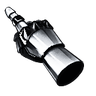
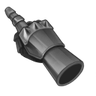
Curseurs : originaux en simples niveaux de gris (tous les détails conservés)
Claude-Session: https://claude.ai/code/session_0146Ahif6waR1P8s7ctFtwsu

Changed region(s): [[0.0312, 0.0625, 0.875, 0.9062]]

diff --git a/src/styles/global.css b/src/styles/global.css
@@ -70,7 +70,7 @@ html.screens, html.screens body { height: 100%; overflow: hidden; overscroll-beh
 
 /* ---------- accessibilité ---------- */
 /* curseur : gantelet (fichier fourni), point chaud à la pointe ; le curseur système reste pour les champs de texte */
-/* curseurs : gantelet médiéval (THTH, domaine public), recoloré en chrome (acier poli) et fer noir ; 48 px, version 2× pour Retina */
+/* curseurs : gantelet médiéval (THTH, domaine public), passé en niveaux de gris ; 48 px, version 2× pour Retina */
 html { cursor: url(/cur-default.png) 2 3, auto !important; cursor: -webkit-image-set(url(/cur-default.png) 1x, url(/cur-default-2x.png) 2x) 2 3, auto !important; cursor: image-set(url(/cur-default.png) 1x, url(/cur-default-2x.png) 2x) 2 3, auto !important; }
 a, button, [role='button'], label, summary, select, [data-go], [data-copy], .prog { cursor: url(/cur-pointer.png) 2 3, auto !important; cursor: -webkit-image-set(url(/cur-pointer.png) 1x, url(/cur-pointer-2x.png) 2x) 2 3, auto !important; cursor: image-set(url(/cur-pointer.png) 1x, url(/cur-pointer-2x.png) 2x) 2 3, auto !important; }
 .obj a, .stage { cursor: url(/cur-grab.png) 2 3, auto !important; cursor: -webkit-image-set(url(/cur-grab.png) 1x, url(/cur-grab-2x.png) 2x) 2 3, auto !important; cursor: image-set(url(/cur-grab.png) 1x, url(/cur-grab-2x.png) 2x) 2 3, auto !important; }
